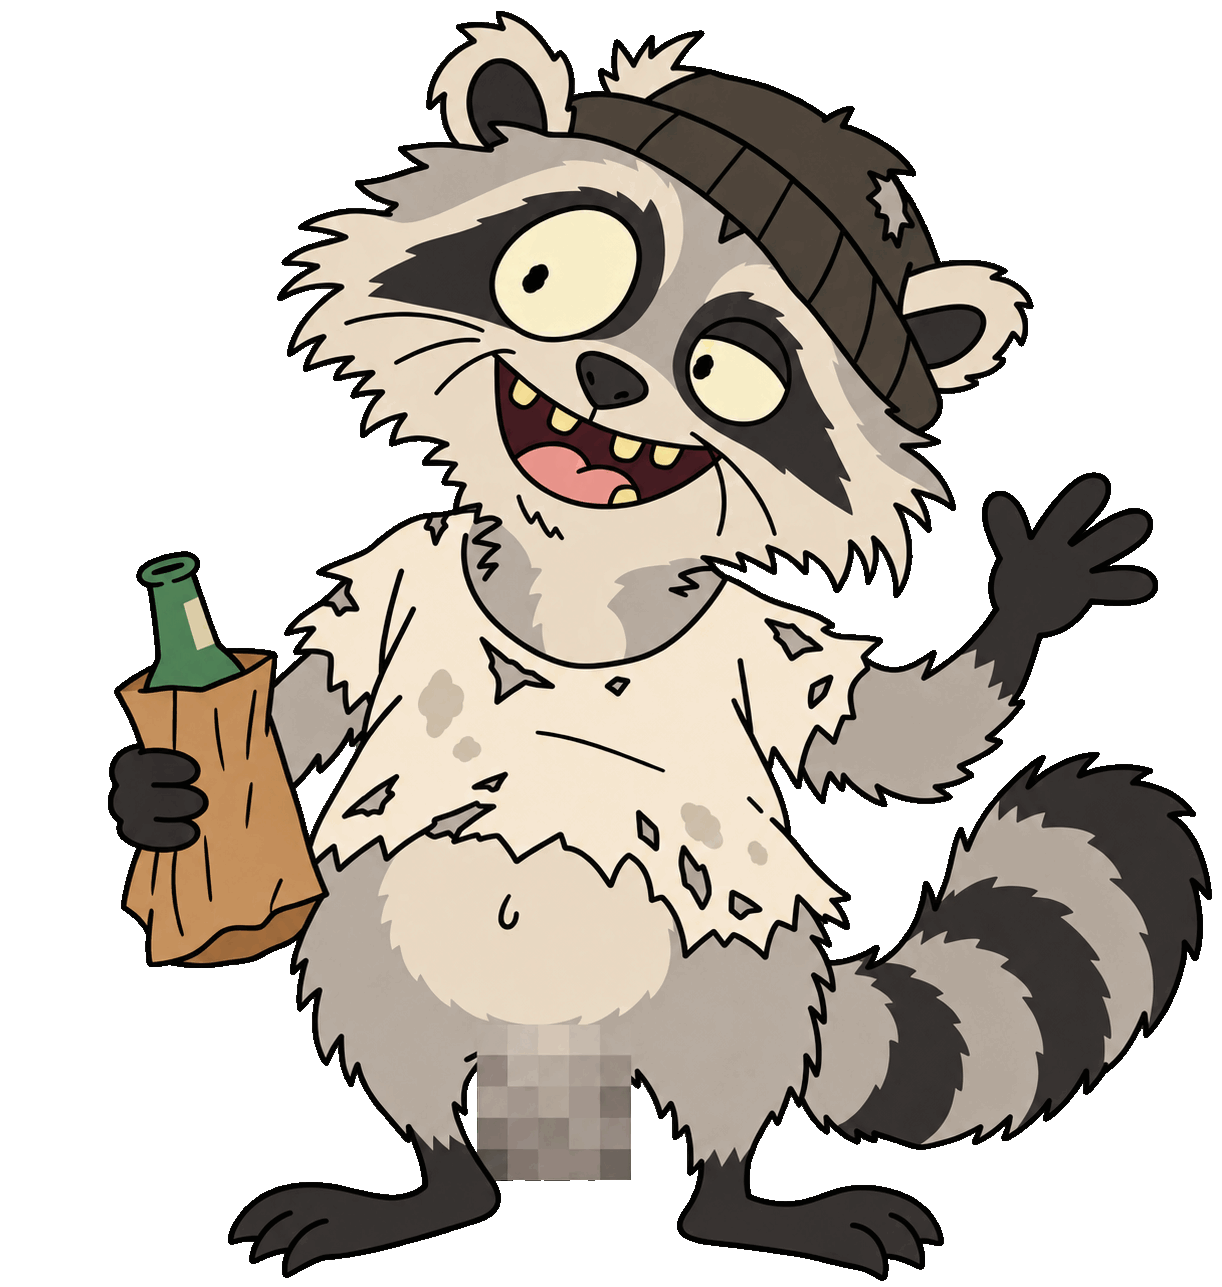
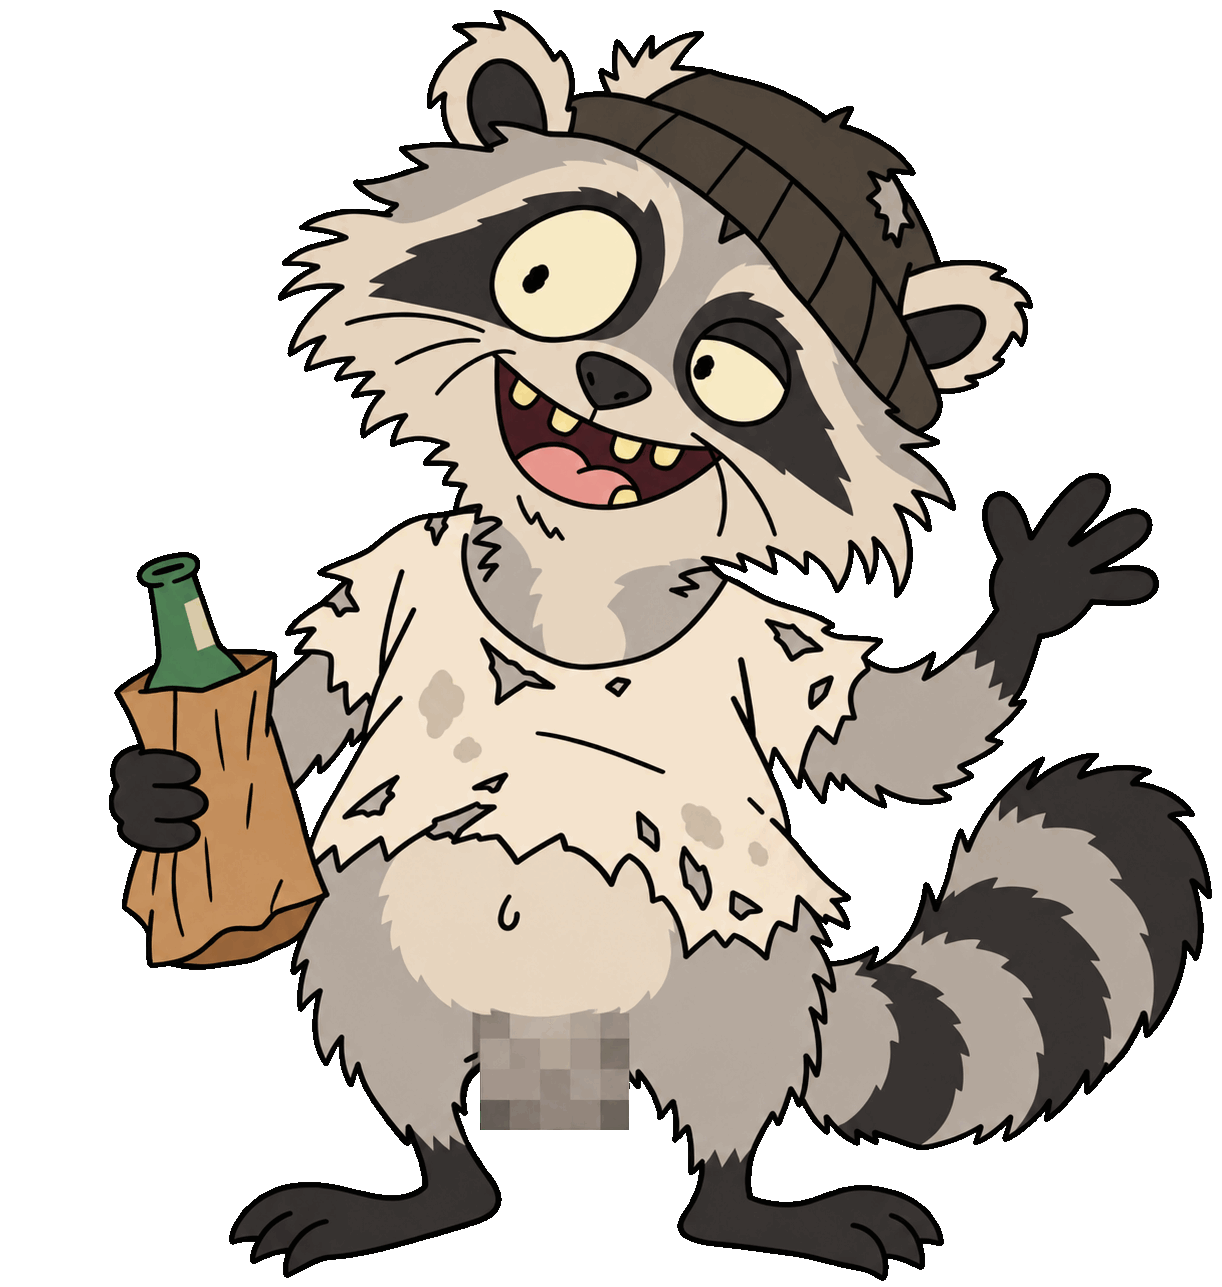
Raise hero censorship mosaic slightly

diff --git a/docs/sw.js b/docs/sw.js
@@ -4,7 +4,7 @@
 'use strict';
 const SCOPE = new URL(self.registration.scope);
 const PREFIX = 'frank-shell:' + SCOPE.pathname + ':';
-const CACHE = PREFIX + 'chat-1.5.7-art-2';
+const CACHE = PREFIX + 'chat-1.5.7-art-3';
 const ASSETS = [
 	'public-demo.js',
 	'storage.js',

diff --git a/sw.js b/sw.js
@@ -4,7 +4,7 @@
 'use strict';
 const SCOPE = new URL(self.registration.scope);
 const PREFIX = 'frank-shell:' + SCOPE.pathname + ':';
-const CACHE = PREFIX + 'chat-1.5.7-art-2';
+const CACHE = PREFIX + 'chat-1.5.7-art-3';
 const ASSETS = [
 	'public-demo.js',
 	'storage.js',
